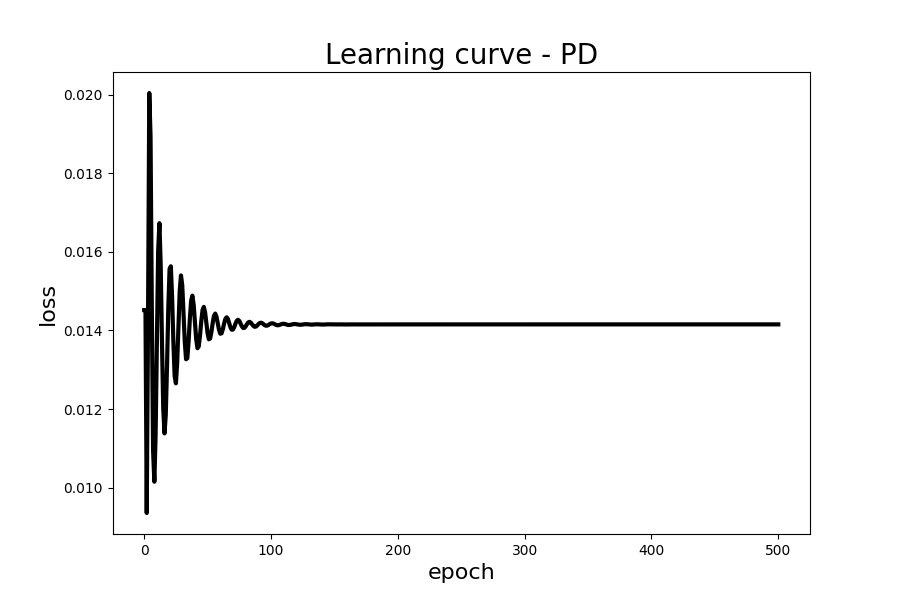
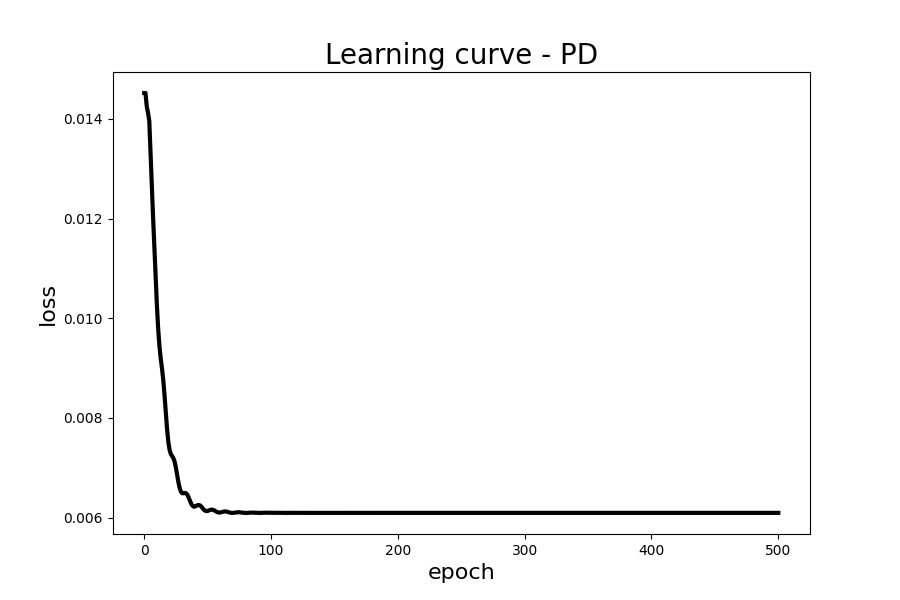
bugfix, remove buggy results

diff --git a/code/gradient.py b/code/gradient.py
@@ -189,8 +189,8 @@ class GradientAlgorithm(algorithm.Algorithm):
         with tf.GradientTape() as t:
             t.watch(input)
             explanation = self.explainer.pd_tf(X=input, idv=self._idv, grid=self.result_explanations["pd"]["grid"])
-            loss = loss.loss_tf(self.result_explanations["pd"]["original"], explanation, self._aim, self._center)
-            d_output_input = t.gradient(loss, input).numpy()
+            loss_ = loss.loss_tf(self.result_explanations["pd"]["original"], explanation, self._aim, self._center)
+            d_output_input = t.gradient(loss_, input).numpy()
         return d_output_input
 
     def _calculate_gradient(self, data):
